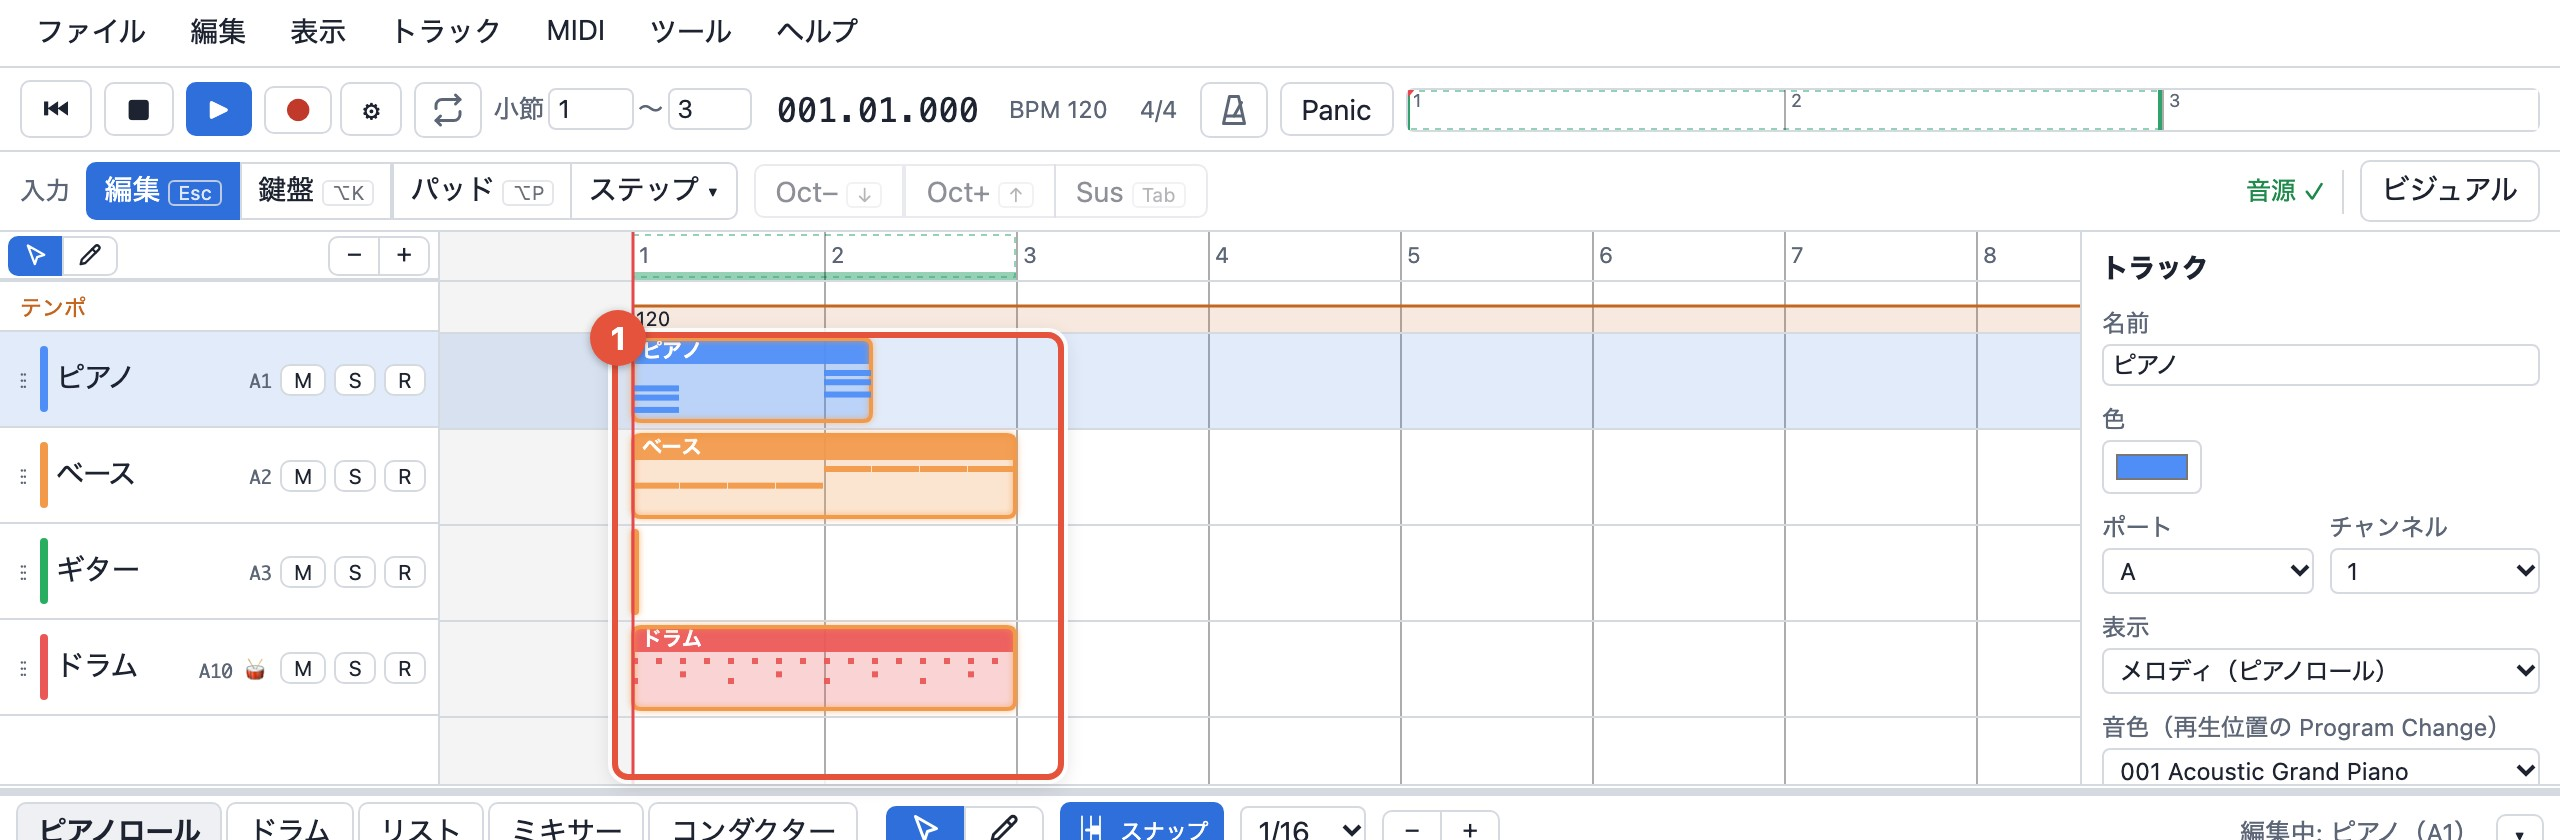
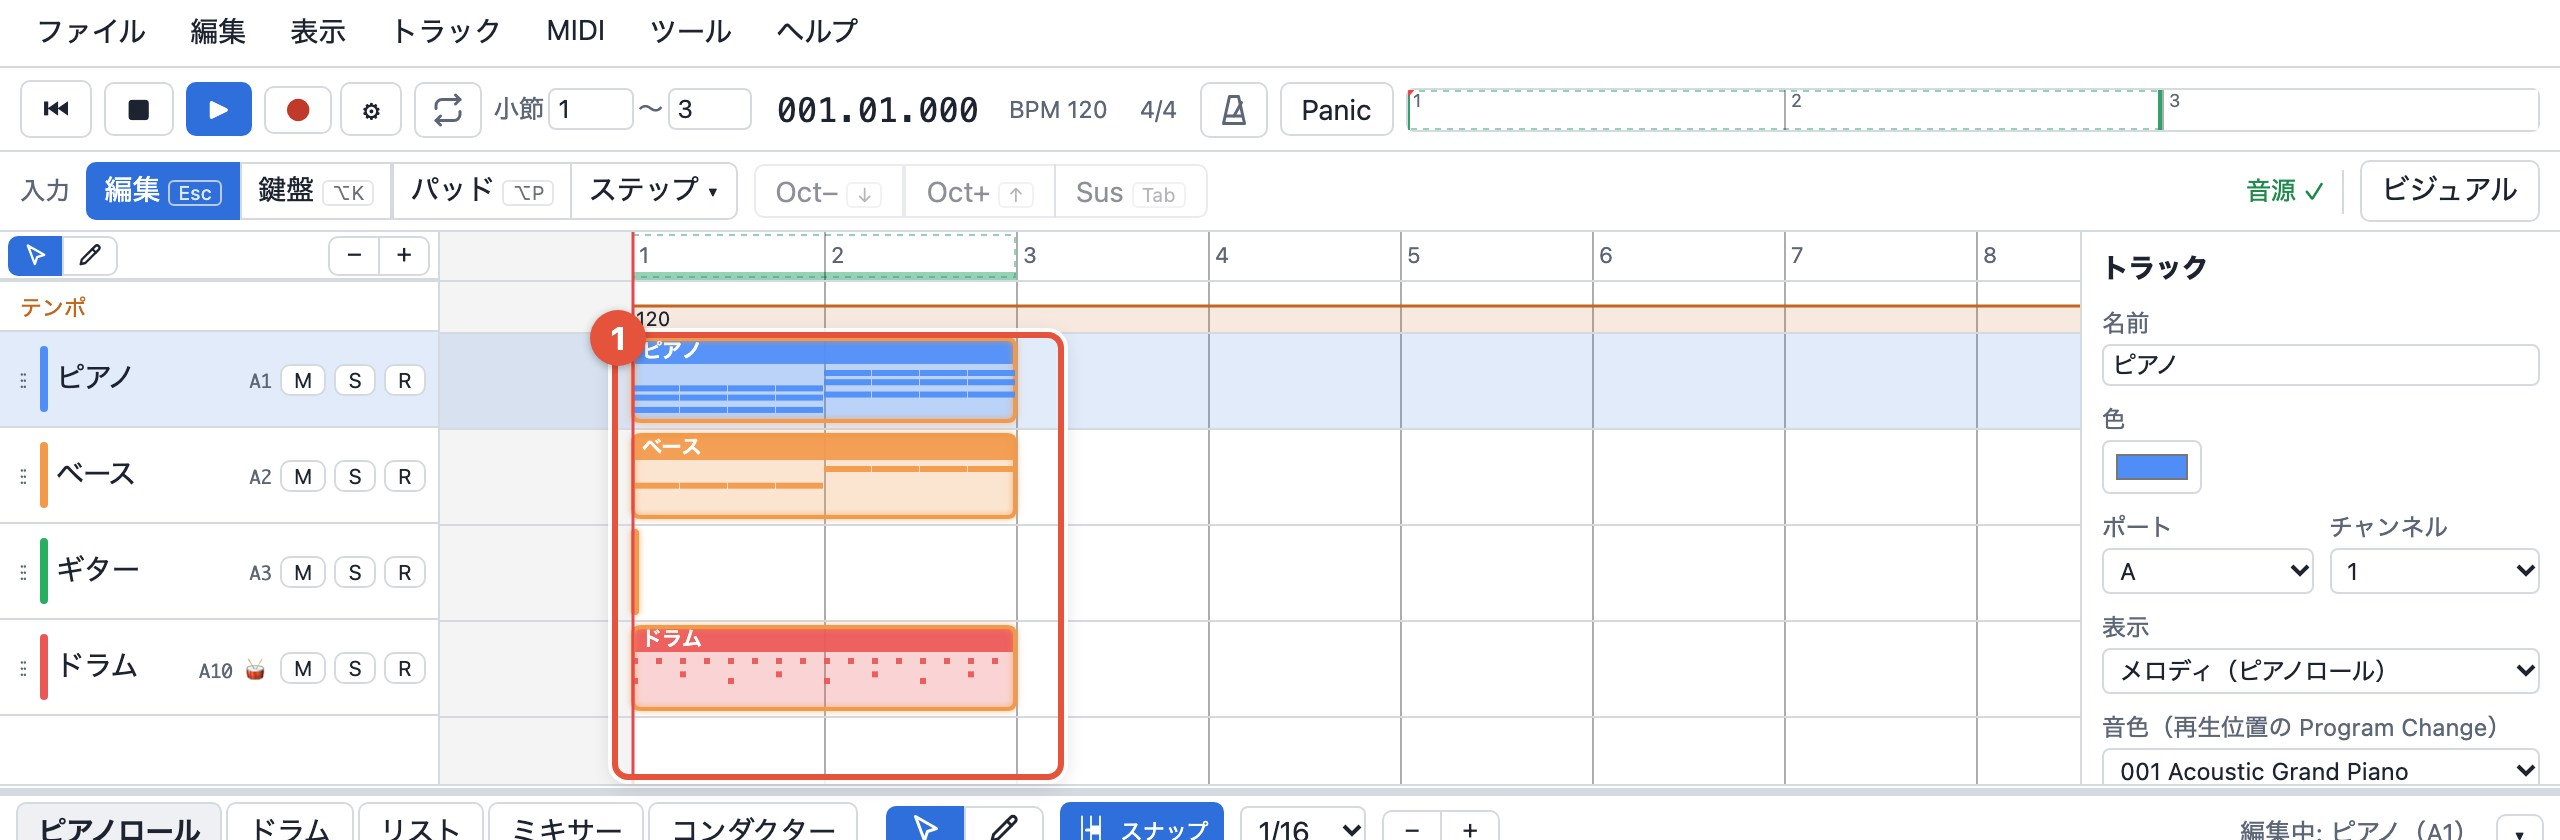
入門の図の元データを「3 章を終えた状態」に統一（ピアノは 4 拍すべてにコード、ドラムは 2 小節）、ドラムを 2 小節にする手順を独立した番号に

Changed region(s): [[0.25, 0.4024, 0.4062, 0.5262]]

diff --git a/scripts/shots/tutorial.spec.ts b/scripts/shots/tutorial.spec.ts
@@ -29,6 +29,21 @@ function song(lang: Lang, parts: { piano?: number[][]; bass?: number[][]; drums?
   return build(1, ppq, [], track(piano, 0, 0, parts.piano), track(bass, 1, 33, parts.bass), track(guitar, 2, 25), track(drums, 9, 0, parts.drums));
 }
 
+/** Exactly what chapters 1–3 leave behind: two bars, C then F, quarter-note chords, bass and the drum pattern. */
+function afterChapter3(): { piano: number[][]; bass: number[][]; drums: number[][] } {
+  const piano: number[][] = [], bass: number[][] = [], drums: number[][] = [];
+  for (const bar of [0, 1]) {
+    const t0 = bar * 4 * Q, chord = bar === 0 ? [60, 64, 67] : [65, 69, 72];
+    for (let beat = 0; beat < 4; beat++) {
+      for (const p of chord) piano.push([t0 + beat * Q, p, Q]);
+      bass.push([t0 + beat * Q, bar === 0 ? 36 : 41, Q]);
+    }
+    drums.push([t0, 36, Q / 2, 110], [t0 + Q, 38, Q / 2, 110], [t0 + Q * 2, 36, Q / 2, 110], [t0 + Q * 3, 38, Q / 2, 110]);
+    for (let i = 0; i < 8; i++) drums.push([t0 + i * (Q / 2), 42, Q / 2, 85]);
+  }
+  return { piano, bass, drums };
+}
+
 async function open(page: Page, lang: Lang, startup = false) {
   await page.context().addInitScript(([l, s]) => {
     localStorage.setItem('midi-studio.locale', l);
@@ -96,14 +111,7 @@ for (const lang of ['ja', 'en'] as Lang[]) {
       await page.setViewportSize({ width: 1280, height: 920 });
       await open(page, lang);
       // --- 画面の見かた: a song with something in every track
-      await importMidi(
-        page,
-        song(lang, {
-          piano: [[0, 60, Q], [0, 64, Q], [0, 67, Q], [Q * 4, 65, Q], [Q * 4, 69, Q], [Q * 4, 72, Q]],
-          bass: [[0, 36, Q], [Q, 36, Q], [Q * 2, 36, Q], [Q * 3, 36, Q], [Q * 4, 41, Q], [Q * 5, 41, Q], [Q * 6, 41, Q], [Q * 7, 41, Q]],
-          drums: [0, 1].flatMap((bar) => [[bar * 4 * Q, 36, Q / 2, 110], [bar * 4 * Q + Q, 38, Q / 2, 110], [bar * 4 * Q + Q * 2, 36, Q / 2, 110], [bar * 4 * Q + Q * 3, 38, Q / 2, 110], ...Array.from({ length: 8 }, (_, i) => [bar * 4 * Q + i * (Q / 2), 42, Q / 2, 85])]),
-        }),
-      );
+      await importMidi(page, song(lang, afterChapter3()));
       await trackHeader(page, piano).click();
       await callout(page, page.locator('.transport'), 1);
       await callout(page, page.locator('.arrangement'), 2);
@@ -146,13 +154,7 @@ for (const lang of ['ja', 'en'] as Lang[]) {
       await gridSelect.selectOption('16:straight');
 
       // --- 3. ベースとコード: C chord then F chord over a bass line, grid 1/4
-      await importMidi(
-        page,
-        song(lang, {
-          piano: [[0, 60, Q], [0, 64, Q], [0, 67, Q], [Q * 4, 65, Q], [Q * 4, 69, Q], [Q * 4, 72, Q]],
-          bass: [[0, 36, Q], [Q, 36, Q], [Q * 2, 36, Q], [Q * 3, 36, Q], [Q * 4, 41, Q], [Q * 5, 41, Q], [Q * 6, 41, Q], [Q * 7, 41, Q]],
-        }),
-      );
+      await importMidi(page, song(lang, afterChapter3()));
       await trackHeader(page, piano).click();
       await tab(page, lang, 'ピアノロール', 'Piano roll').click();
       await page.getByRole('combobox', { name: lang === 'ja' ? 'グリッド' : 'Grid' }).selectOption('4:straight');
@@ -186,14 +188,7 @@ for (const lang of ['ja', 'en'] as Lang[]) {
       await page.keyboard.press('Escape');
 
       // --- 6. 曲の形にする: rubber-band the four clips
-      await importMidi(
-        page,
-        song(lang, {
-          piano: [[0, 60, Q], [0, 64, Q], [0, 67, Q], [Q * 4, 65, Q], [Q * 4, 69, Q], [Q * 4, 72, Q]],
-          bass: [[0, 36, Q], [Q, 36, Q], [Q * 2, 36, Q], [Q * 3, 36, Q], [Q * 4, 41, Q], [Q * 5, 41, Q], [Q * 6, 41, Q], [Q * 7, 41, Q]],
-          drums: [0, 1].flatMap((bar) => [[bar * 4 * Q, 36, Q / 2, 110], [bar * 4 * Q + Q, 38, Q / 2, 110], [bar * 4 * Q + Q * 2, 36, Q / 2, 110], [bar * 4 * Q + Q * 3, 38, Q / 2, 110], ...Array.from({ length: 8 }, (_, i) => [bar * 4 * Q + i * (Q / 2), 42, Q / 2, 85])]),
-        }),
-      );
+      await importMidi(page, song(lang, afterChapter3()));
       await page.keyboard.press('Escape');
       await page.getByTestId('arr-tool-select').click();
       const arr = (await page.getByTestId('arrangement-canvas').boundingBox())!;

diff --git a/src/app/help/tutorial.tsx b/src/app/help/tutorial.tsx
@@ -92,7 +92,8 @@ export const TUTORIAL_CHAPTERS: HelpSection[] = [
           <li>「ベース」を選び、編集グリッドを <strong>1/4</strong> に戻して、ピアノロールの C2 の段に 4 分音符を 4 つ置きます（1 小節ぶん）。</li>
           <li>「ピアノ」に戻り、1 章で置いた 4 つのノートそれぞれの上に、E4 と G4 を置きます（1 拍につき C4・E4・G4 の 3 つ、合計 12 個）。C・E・G が同時に鳴ると C のコード（ドミソ）です。</li>
           <li>2 小節目を作ります。ピアノロールをクリックしてから <K>{MOD}A</K> で 1 小節目のノートをすべて選び、<K>{MOD}D</K> で複製。同じものが 2 小節目に置かれ、選ばれた状態になります。そのまま <K>↑</K> を 5 回押すと 5 半音上がり、F4・A4・C5（F のコード）になります。</li>
-          <li>ベースも同じです。「ベース」を選び、ピアノロールをクリックしてから <K>{MOD}A</K> → <K>{MOD}D</K> → <K>↑</K> を 5 回で、2 小節目が F2 になります。ドラムは「ドラム」を選んで <K>{MOD}A</K> → <K>{MOD}D</K> だけ（2 小節目も同じパターン）。</li>
+          <li>ベースも同じです。「ベース」を選び、ピアノロールをクリックしてから <K>{MOD}A</K> → <K>{MOD}D</K> → <K>↑</K> を 5 回で、2 小節目が F2 になります。</li>
+          <li>ドラムも 2 小節にします。「ドラム」を選び、<K>{MOD}A</K> → <K>{MOD}D</K>。2 章で作った 1 小節のパターンが 2 小節目にも入ります（↑ は押しません）。</li>
           <li>トランスポートの「小節」の右側の数を 3 にします（1 〜 3 で、1・2 小節目を繰り返し）。<K>Space</K>。C → F と進むだけで曲らしくなります。</li>
         </ol>
         <p>ノートを選んで <K>{MOD}C</K> → 再生位置を動かして <K>{MOD}V</K> で貼り付け、<K>{MOD}D</K> で複製（選んだ範囲のすぐ後ろに）。<K>↑↓</K> で半音、Shift+<K>↑↓</K> でオクターブ移動します。</p>

diff --git a/src/app/help/tutorial.en.tsx b/src/app/help/tutorial.en.tsx
@@ -84,7 +84,8 @@ export const TUTORIAL_CHAPTERS_EN: HelpSection[] = [
           <li>Select “Bass”, set the edit grid back to <strong>1/4</strong>, and place four quarter notes in the C2 row of the piano roll (one bar).</li>
           <li>Back on “Piano”, put E4 and G4 on top of each of the four notes from chapter 1 (C4, E4 and G4 on every beat: 12 notes in all). C, E and G together make a C chord.</li>
           <li>Now bar 2. Click the piano roll, press <K>{MOD}A</K> to select all the notes of bar 1, then <K>{MOD}D</K> to duplicate them: the same notes appear in bar 2 and stay selected. Press <K>↑</K> five times to raise them five semitones: F4, A4, C5 (an F chord).</li>
-          <li>The bass works the same way: select “Bass”, click the piano roll, then <K>{MOD}A</K> → <K>{MOD}D</K> → <K>↑</K> five times, and bar 2 is F2. For the drums just <K>{MOD}A</K> → <K>{MOD}D</K> (bar 2 gets the same pattern).</li>
+          <li>The bass works the same way: select “Bass”, click the piano roll, then <K>{MOD}A</K> → <K>{MOD}D</K> → <K>↑</K> five times, and bar 2 is F2.</li>
+          <li>Give the drums two bars as well: select “Drums”, then <K>{MOD}A</K> → <K>{MOD}D</K>. The one-bar pattern from chapter 2 now fills bar 2 too (no ↑ here).</li>
           <li>Set the right-hand “Bars” number in the transport to 3 (1 to 3 loops bars 1 and 2). <K>Space</K>. Just going C → F already sounds like a song.</li>
         </ol>
         <p>Select notes and <K>{MOD}C</K>, move the playhead and <K>{MOD}V</K> to paste; <K>{MOD}D</K> duplicates right after the selection. <K>↑↓</K> moves by a semitone, Shift+<K>↑↓</K> by an octave.</p>
